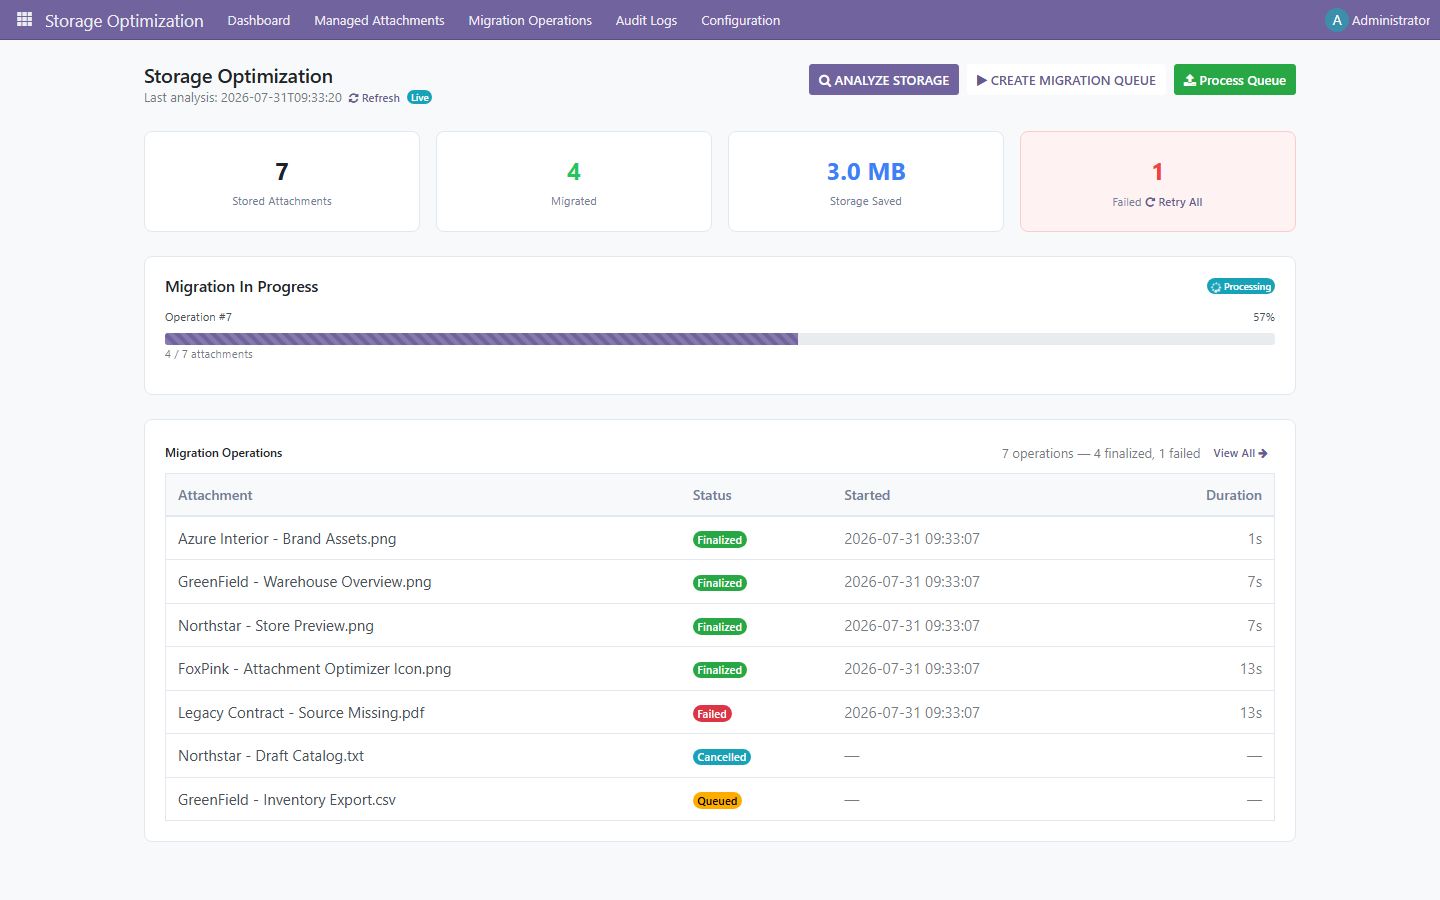
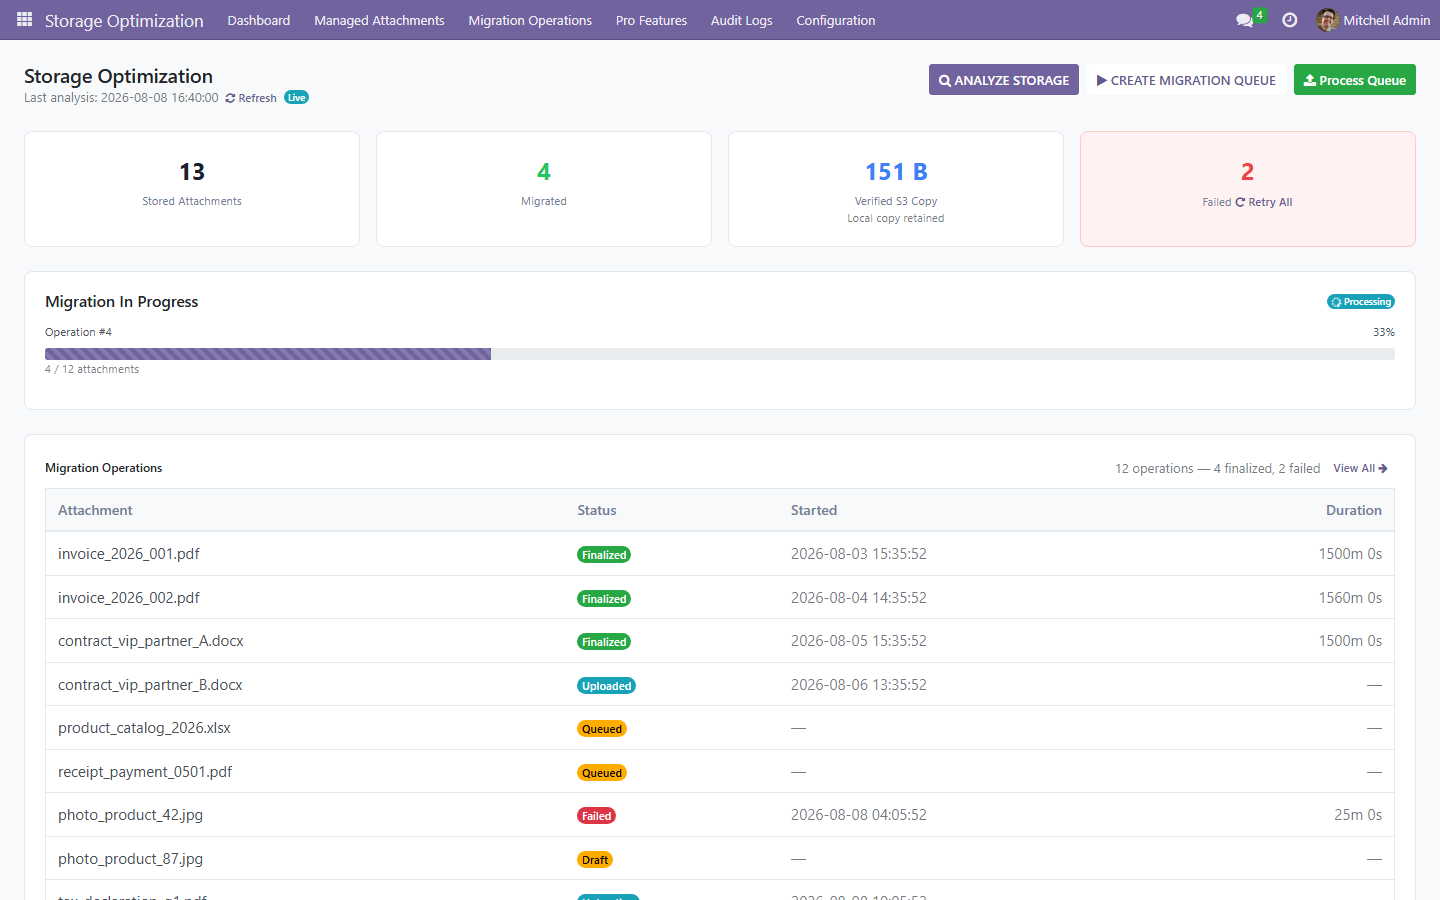
Harden full-width dashboard and refresh screenshot

diff --git a/attachment_optimizer/static/src/components/dashboard/dashboard.scss b/attachment_optimizer/static/src/components/dashboard/dashboard.scss
@@ -7,6 +7,12 @@
     position: relative;
 }
 
+html .o_web_client .o_action_manager .o_dashboard {
+    width: 100%;
+    max-width: none;
+    margin: 0;
+}
+
 html .o_web_client > .o_action_manager {
     overflow-y: auto;
     overflow-x: hidden;
@@ -77,7 +83,7 @@ html .o_web_client > .o_action_manager {
 /* KPI Cards */
 .o_kpi_row {
     display: grid;
-    grid-template-columns: repeat(4, 1fr);
+    grid-template-columns: repeat(4, minmax(0, 1fr));
     gap: 16px;
     margin-bottom: 24px;
 }
@@ -412,4 +418,20 @@ html .o_web_client > .o_action_manager {
 @media (max-width: 600px) {
     .o_pro_upgrade_banner { align-items: stretch; flex-direction: column; }
     .o_pro_upgrade_banner .btn { min-height: 44px; }
+}
+
+@media (max-width: 1100px) {
+    .o_kpi_row { grid-template-columns: repeat(2, minmax(0, 1fr)); }
+}
+
+@media (max-width: 768px) {
+    .o_dashboard { padding: 16px; }
+    .o_dashboard_header { flex-direction: column; gap: 16px; }
+    .o_dashboard_actions { width: 100%; }
+    .o_dashboard_actions .btn { flex: 1; min-height: 44px; }
+}
+
+@media (max-width: 480px) {
+    .o_kpi_row { grid-template-columns: 1fr; }
+    .o_dashboard_actions { flex-direction: column; }
 }

diff --git a/attachment_optimizer/static/description/index.html b/attachment_optimizer/static/description/index.html
@@ -271,7 +271,7 @@
                 Licensed under LGPL-3 &mdash; free to use, modify and distribute.
             </p>
             <div style="display:inline-block; border:2px solid #4f46e5; color:#4f46e5; font-weight:700; font-size:13px; padding:10px 28px; border-radius:8px; letter-spacing:0.2px;">github.com/FoxPinkHQ/attachment-optimizer</div>
-            <p style="font-size:11px; color:#94a3b8; margin:20px 0 0;">Version 16.0.1.0.7 &middot; Built and maintained by FoxPink</p>
+            <p style="font-size:11px; color:#94a3b8; margin:20px 0 0;">Version 16.0.1.0.8 &middot; Built and maintained by FoxPink</p>
         </div>
 
     </div>

diff --git a/attachment_optimizer/__manifest__.py b/attachment_optimizer/__manifest__.py
@@ -1,6 +1,6 @@
 {
     "name": "Attachment Optimizer",
-    "version": "16.0.1.0.7",
+    "version": "16.0.1.0.8",
     "category": "Storage",
     "summary": "Safely replicate and serve Odoo attachments from S3-compatible storage.",
     "description": """

diff --git a/README.md b/README.md
@@ -4,7 +4,7 @@
 
 ![Attachment Optimizer](attachment_optimizer/static/description/preview.png)
 
-**Version:** 16.0.1.0.7 -- **License:** LGPL-3 -- **Publisher:** FoxPink -- Maintained for **Odoo 14.0-19.0** (one validated build per series)
+**Version:** 16.0.1.0.8 -- **License:** LGPL-3 -- **Publisher:** FoxPink -- Maintained for **Odoo 14.0-19.0** (one validated build per series)
 
 ---
 
